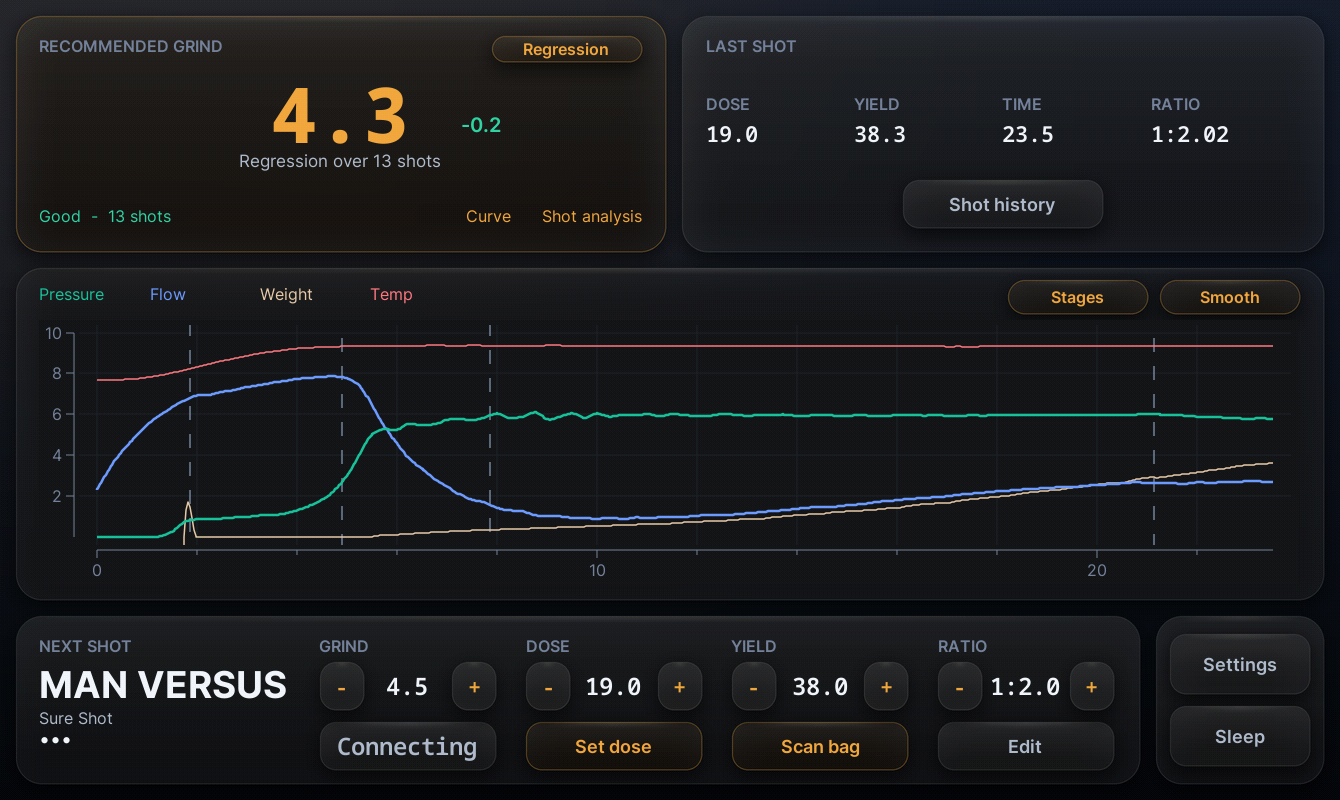
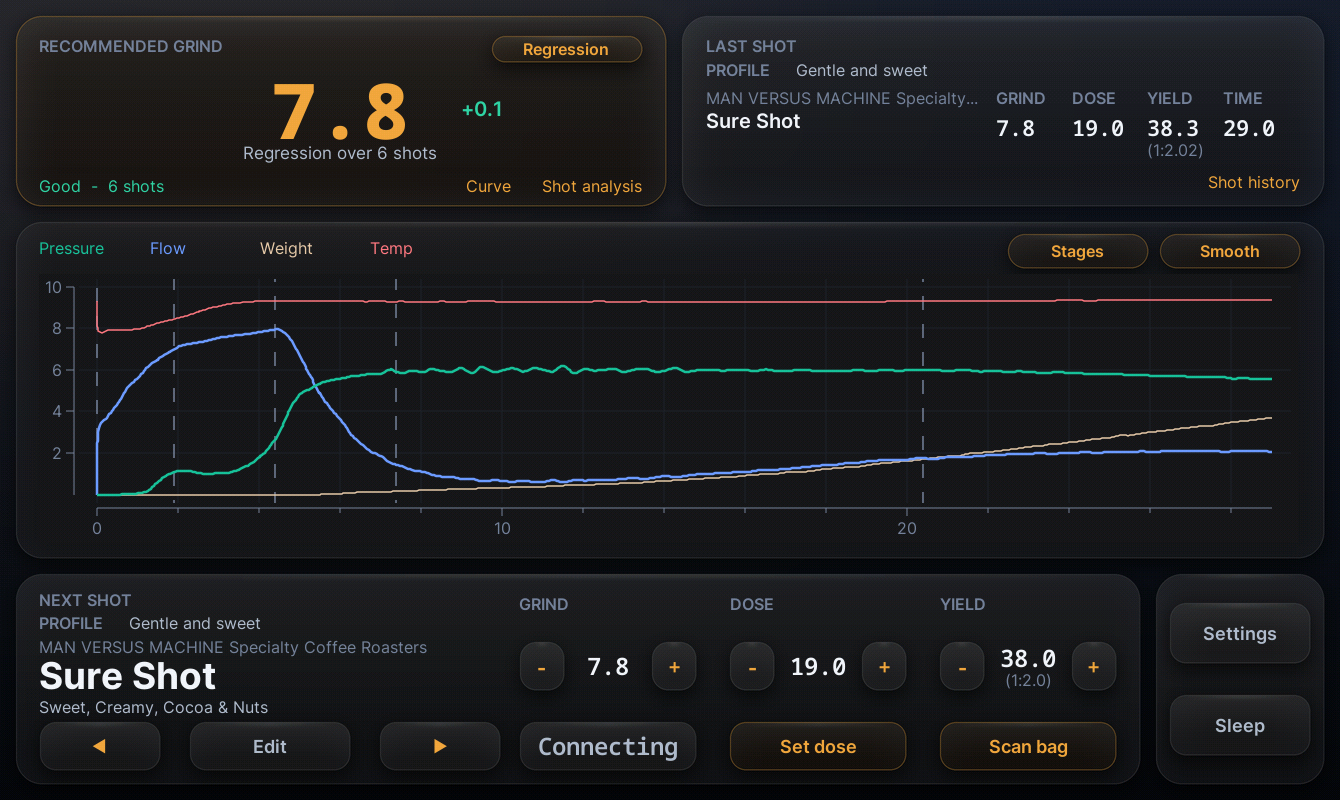
README: current home-screen screenshot and v0.23.2 feature list

diff --git a/README.md b/README.md
@@ -7,13 +7,15 @@ recommendation, the last shot, the shot graph, and the beans for the next
 shot — all reachable without going into Settings. It is built to work with
 GrindAdvisor, DYE, Bean Scanner, ShotHistoryEditor and SDB.
 
-**Version 0.18.0 — home dashboard, shot chart and flow pages all built and
-running on the tablet.** 0.18.0 removes the Espresso/Steam/Water/Flush rail
-(the machine's GHC covers those), widens every tile to full width, adds
-**− value + steppers** for grind, dose, yield and ratio to the next-shot
-strip, a **Shot history** shortcut to the Last shot tile, and relabels the
-steam page's temperature as **STEAM HEATER** with its set point stated
-beneath it.
+**Version 0.23.2 — every page built, baked and running on the tablet.**
+
+Since 0.18.0: every page uses a pre-rendered frosted background rather than
+just the home screen; the next-shot strip gained a **bag cycler** that steps
+through your recently used beans; both cards show the **profile** the shot
+uses, because a profile change now starts a fresh grind calibration; and the
+bean's **tasting notes** sit under its name. The grind tile follows the bag
+you cycle to, showing that bag's own recommendation rather than the last one
+you happened to pull.
 
 ## The home screen
 
@@ -29,17 +31,23 @@ backdrop and let the shadow do the separating.
 
 | Tile | Shows | Tap |
 |---|---|---|
-| Grind | GrindAdvisor's next setting, the change from the last one, method, confidence and shot count | Opens GrindAdvisor's result popup |
+| Grind | GrindAdvisor's next setting for the loaded bag, the change from the last one, method, confidence and shot count | Opens GrindAdvisor's result popup |
 | Curve (on the grind tile) | — | Opens GrindAdvisor's Calibration Curve directly |
-| Last shot | Dose, yield, time, ratio | — |
-| Graph | Pressure, flow, cumulative weight and basket temperature for the shot, plus dashed stage separators at every frame change | **Stages** and **Raw / Smooth** toggles in its header |
-| Next shot | Bean, roast date, grind, dose, target yield, ratio | Opens DYE's next-shot editor |
-| − value + steppers | GRIND, DOSE, YIELD, RATIO — the live value sits between the pills | Slow tap ±0.1; quick taps on grind/dose/yield escalate to ±0.5 then ±1.0 |
+| Last shot | The profile it ran on, the roaster and bean, then grind, dose, yield (with the ratio beneath) and time | — |
 | Shot history (Last shot tile) | — | Opens the Shot History Editor (edit / soft-delete past shots) |
+| Graph | Pressure, flow, cumulative weight and basket temperature for the shot, plus dashed stage separators at every frame change | **Stages** and **Raw / Smooth** toggles in its header |
+| Next shot | The profile, the roaster, the bean, and its tasting notes | — |
+| ◀ ▶ (next-shot card) | The bag being cycled | Steps through your recently used beans |
+| Edit | — | Opens DYE's next-shot editor |
+| − value + steppers | GRIND, DOSE, YIELD — the live value sits between the pills, with the derived ratio under the yield | Slow tap ±0.1; quick taps escalate to ±0.5 then ±1.0 |
 | Scale readout | Live weight, or `Connecting` / `Connect` / `no scale` | Forces a scale reconnect |
 | Set dose | — | Stores the current scale weight as the dose |
-| Scan bag / Edit | Bottom row of the next-shot strip | Bean Scanner, DYE editor |
+| Scan bag | — | Bean Scanner |
 | Settings / Sleep | Their own side panel, right of the strip | Lumen settings, sleep |
+
+The bag cycler reads your recent beans through SDB's public API and applies
+the chosen one through DYE, so the skin itself opens no database. How many
+bags it offers is set on the Lumen settings page (3–10, default 5).
 
 There are no Espresso/Steam/Water/Flush buttons — the machine's GHC starts
 those, and the flow pages take over the screen as soon as it does.
